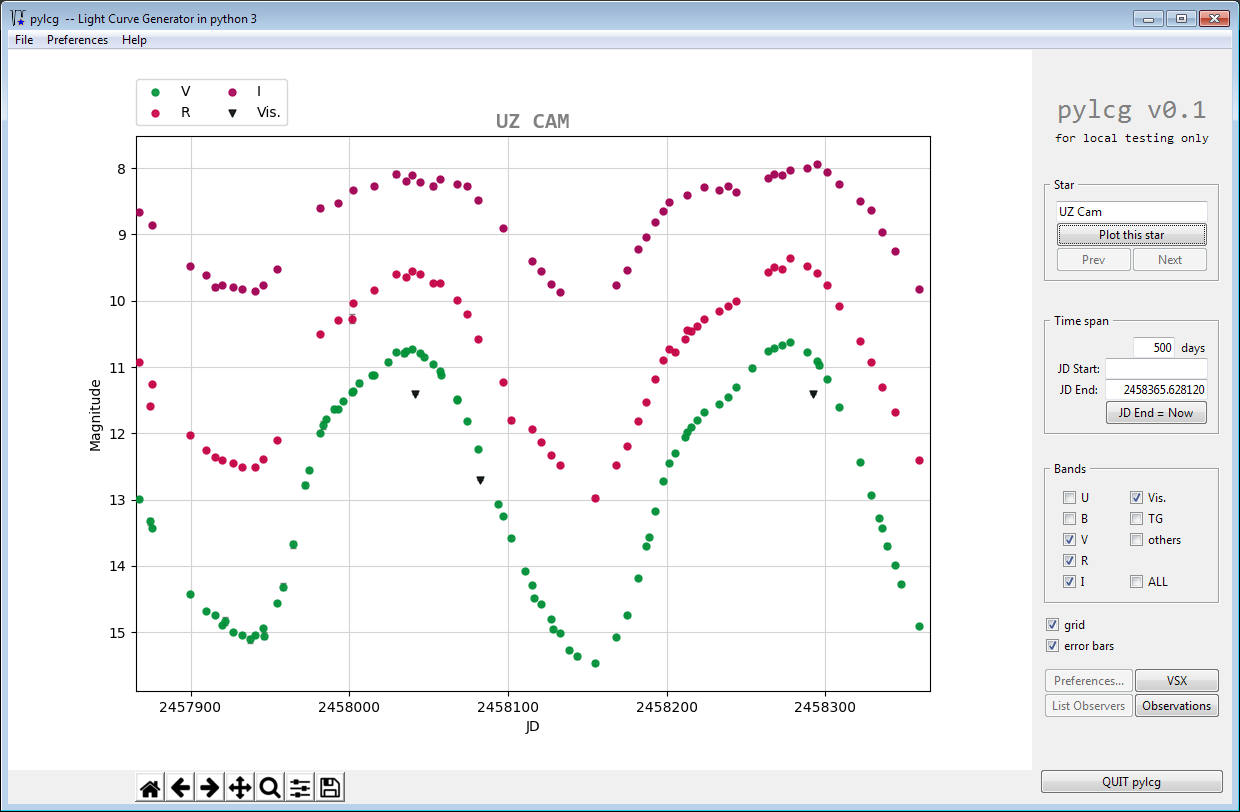
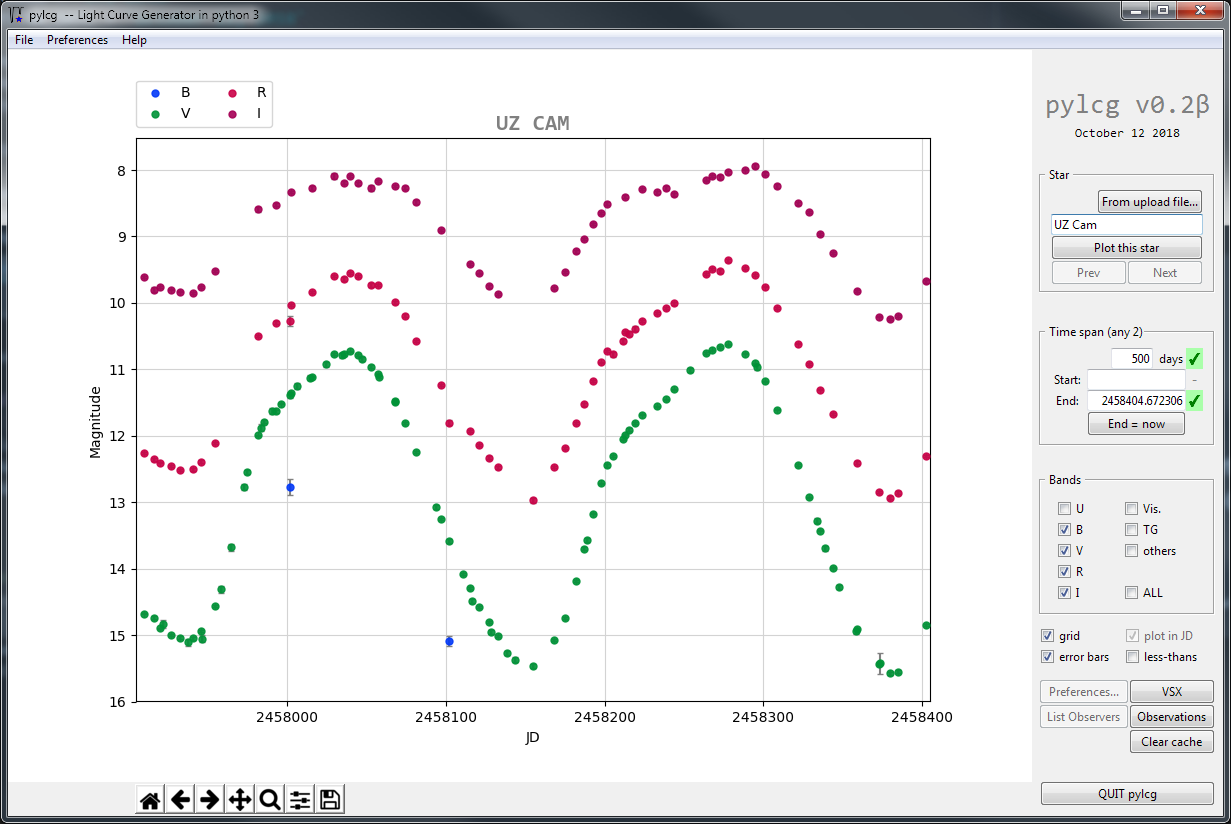
0.2 Beta :: Calendar dates on x-axis postponed.

diff --git a/pylcg/plot.py b/pylcg/plot.py
@@ -1,6 +1,8 @@
 import matplotlib
 matplotlib.use('TkAgg')  # this must immediately follow 'import matplotlib', even if IDE complains.
 
+from datetime import datetime, timedelta, timezone
+
 import tkinter as tk
 from tkinter import ttk
 from math import isnan
@@ -27,12 +29,12 @@ PLOT_TITLE_COLOR = 'gray'
 GRID_COLOR = 'lightgray'
 
 
-def redraw_plot(canvas, mdf, star_id, bands_to_plot,
-                show_errorbars=True, show_grid=True, show_lessthans=False,
-                jd_start=None, jd_end=None, num_days=None):
+def redraw_plot(canvas, mdf, star_id, bands_to_plot, show_errorbars=True, show_grid=True,
+                show_lessthans=False, plot_in_jd=True, jd_start=None, jd_end=None, num_days=None):
     """  Reformat data for matplotlib, then clear and redraw plot area only, and trigger replacement of
     the old plot by the new plot within the containing tkinter Frame.
     Do not touch other areas of main page, and do not change any external data.
+    :param plot_in_jd:
     :param canvas: canvas containing LCG plot [matplotlib FigureCanvasTkAgg object].
     :param mdf: data to plot [MiniDataFrame object].
     :param star_id: star ID to plot [string].
@@ -40,6 +42,7 @@ def redraw_plot(canvas, mdf, star_id, bands_to_plot,
     :param show_errorbars: True to plot errorbars with datapoints, else False [boolean].
     :param show_grid: True to plot grid behind plot, else False [boolean].
     :param show_lessthans: True to plot "less-than" datapoints as normal ones, else omit [boolean].
+    :param plot_in_jd: True to plot x-axis in Julian Data, False for US-format calendar dates [boolean].
     ==== User, via the GUI, needs to supply 2 of the following 3 values to define x-range of plot:
     :param jd_start: JD to be at plot's left edge [float].
     :param jd_end:  JD to be at plot's right edge, often the current JD [float].
@@ -67,7 +70,10 @@ def redraw_plot(canvas, mdf, star_id, bands_to_plot,
     ax = canvas.figure.axes[0]
     ax.clear()
     ax.set_title(star_id.upper(), color=PLOT_TITLE_COLOR, fontname='Consolas', fontsize=16, weight='bold')
-    ax.set_xlabel('JD')
+    if plot_in_jd:
+        ax.set_xlabel('JD')
+    else:
+        ax.set_xlabel('Date (UTC)')
     ax.set_ylabel('Magnitude')
     if show_grid:
         ax.grid(True, color=GRID_COLOR, zorder=-1000)  # zorder->behind everything else.
@@ -85,10 +91,16 @@ def redraw_plot(canvas, mdf, star_id, bands_to_plot,
         is_band = [b == band for b in mdf.column('band')]
         mdf_band = mdf.row_subset(is_band)
         if sum(is_band) >= 1:
-            ax.scatter(x=mdf_band.column('JD'), y=mdf_band.column('mag'),
+            if plot_in_jd:
+                x = mdf_band.column('JD')  # use Julian Dates just as they are.
+            else:
+                x = [util.datetime_utc_from_jd(jd) for jd in mdf_band.column('JD')]  # convert to datetimes.
+            ax.scatter(x=x, y=mdf_band.column('mag'),
                        color=band_color, marker=band_marker,
                        s=25, alpha=0.9, zorder=+1000)  # zorder->on top of everything.
             legend_labels.append(band)
+
+    # Compute x-axis limits:
     if jd_end is None:
         x_high = util.jd_now()
     else:
@@ -97,13 +109,25 @@ def redraw_plot(canvas, mdf, star_id, bands_to_plot,
         x_low = x_high - num_days
     else:
         x_low = jd_start
+    if not plot_in_jd:
+        x_high = util.datetime_utc_from_jd(x_high)
+        x_low = util.datetime_utc_from_jd(x_low)
     x_range = abs(x_high - x_low)
+    print(x_low, x_high, x_range)
     ax.set_xlim(x_low - 0.00 * x_range, x_high + 0.00 * x_range)
-    ax.get_xaxis().get_major_formatter().set_useOffset(False)  # possibly improve this later.
-    # To follow convention of brighter (=lesser value) manitudes to be plotted toward plot top.
-    # The next lines are a kludge, due to ax.invert_yaxis() repeatedly inverting on successive calls.
-    y_low, y_high = ax.set_ylim()
 
+    # Format x-axis labels:
+    if plot_in_jd:
+        ax.get_xaxis().get_major_formatter().set_useOffset(False)  # possibly improve this later.
+    else:
+        for label in ax.get_xticklabels():
+            label.set_ha("right")
+            label.set_rotation(30)
+
+    # Arrange the y-axis limits (not trivial as we follow convention of brighter =lesser value magnitudes
+    #    to be plotted toward top of plot.
+    # We don't use ax.invert_yaxis() as it has side-effect of repeatedly inverting y on successive calls.
+    y_low, y_high = ax.set_ylim()
     ax.set_ylim(max(y_low, y_high), min(y_low, y_high))
     ax.legend(labels=legend_labels, scatterpoints=1,
               bbox_to_anchor=(0, 1.02, 1, .102), loc=3, ncol=2, borderaxespad=0)

diff --git a/pylcg/app.py b/pylcg/app.py
@@ -33,7 +33,7 @@ __author__ = "Eric Dose :: New Mexico Mira Project, Albuquerque"
          Data cacheing built with python's built-in package functools.     
          Plotting built with package matplotlib v 2.0.2.
          [pandas dependence removed Sept 7 2018 in favor of local 'MiniDataFrame' class.]
-     This pylcg version: 0.1 BETA, September 6, 2018.
+     This pylcg version: 0.2 BETA, October 12, 2018.
      Eric Dose, Albuquerque, New Mexico, USA
 """
 
@@ -44,7 +44,7 @@ BETA_CHARACTER = '\u03B2'  # unicode 'small beta'
 
 PYLCG_LOGO = 'pylcg v0.2' + BETA_CHARACTER
 PYLCG_LOGO_FONT = ('consolas', 20)
-PYLCG_SUB_LOGO = 'October 11 2018'
+PYLCG_SUB_LOGO = 'October 12 2018'
 PYLCG_SUB_LOGO_FONT = ('consolas', 9)
 
 PYLCG_VERSION = '0.2 BETA'
@@ -317,7 +317,7 @@ class ApplicationPylcg(tk.Tk):
         self.lessthan_flag = tk.BooleanVar()
         self.grid_flag.set(True)
         self.errorbar_flag.set(True)
-        self.plotjd_flag.set(True)
+        self.plotjd_flag.set(True)  # 0.2 Beta: disabled for toolbar problems (see below)
         self.lessthan_flag.set(False)
         self.grid_flag.trace("w", lambda name, index,
                                          mode: self._entered_star(self.target_list.current()))
@@ -339,6 +339,7 @@ class ApplicationPylcg(tk.Tk):
         plotjd_checkbutton.grid(row=0, column=1, sticky='w')
         errorbars_checkbutton.grid(row=1, column=0, sticky='w')
         lessthan_checkbutton.grid(row=1, column=1, sticky='w')
+        plotjd_checkbutton.state(['disabled'])  # 0.2 Beta, as TK Toolbar misbehaves on calendar dates.
 
         self.mdf_obs_data = MiniDataFrame()  # declare here, as will be depended upon later.
 
@@ -613,7 +614,7 @@ class ApplicationPylcg(tk.Tk):
         # print(web.get_vsx_obs.cache_info())  # show cache hits, number of entries, etc
         plotter.redraw_plot(self.canvas, self.mdf_obs_data, star_id, bands_to_plot=self.bands_to_plot,
                             show_errorbars=self.errorbar_flag.get(), show_grid=self.grid_flag.get(),
-                            show_lessthans=self.lessthan_flag.get(),
+                            show_lessthans=self.lessthan_flag.get(), plot_in_jd=self.plotjd_flag.get(),
                             jd_start=jd_start, jd_end=jd_end, num_days=jd_end - jd_start)
 
 

diff --git a/pylcg/util.py b/pylcg/util.py
@@ -1,4 +1,4 @@
-from datetime import datetime, timezone
+from datetime import datetime, timezone, timedelta
 from collections import OrderedDict   # OrderedDict removes duplicates while preserving order
 #                                       (NB: in py 3.7+, native python dictionaries will do this too.)
 import csv
@@ -28,6 +28,19 @@ def jd_from_datetime_utc(datetime_utc=None):
     jd_j2000 = 2451544.5
     seconds_since_j2000 = (datetime_utc - datetime_j2000).total_seconds()
     return jd_j2000 + seconds_since_j2000 / (24*3600)
+
+
+def datetime_utc_from_jd(jd=None):
+    """  Converts a Julian Date to UTC datetime. Imported from photrix (E. Dose).
+    :param jd: Julian date to be converted [float].
+    :return: UTC datetime from Julian Date [python datetime object].
+    """
+    if jd is None:
+        return datetime.now(timezone.utc)
+    datetime_j2000 = datetime(2000, 1, 1, 0, 0, 0).replace(tzinfo=timezone.utc)
+    jd_j2000 = 2451544.5
+    seconds_since_j2000 = 24 * 3600 * (jd - jd_j2000)
+    return datetime_j2000 + timedelta(seconds=seconds_since_j2000)
 
 
 def jd_now():

diff --git a/README.md b/README.md
@@ -2,20 +2,21 @@
 
 #### A new (August-September 2018) python 3 replacement for AAVSO's venerable but doomed Light Curve Generator "LCG V1".
 
-Mid-2018, the [AAVSO](http://www.aavso.org) (American Association of Variable Star Observers) decided that it must retire its original Light Curve Generator [LCG V1](https://www.aavso.org/lcg). For years it has been AAVSO's main web service for plotting variable-star "light curves". But LCG V1 will probably disappear late 2018.
- 
-While AAVSO's newer light-curve plotting tool [LCG V2](https://www.aavso.org/LCGv2/) is in place, a number of high-volume CCD variable-star observers (including the one writing this) do not consider LCG V2 a viable replacement. Their reasons can be readily found on AAVSO's Forums, but LCG V2's clumsy interface, tectonic load rates, and its (um) aesthetic sense seem to be the most cited causes for rejection.    
+_Currently: version 0.2 Beta, October 12, 2018_
 
-So, in short, this author wrote this pylcg software as a lightweight, streamlined, but full-featured light curve plotting tool. By contrast to AAVSO's LCG V1 and LCG V2, which are run on AAVSO's servers as web services, pylcg is offered as a Windows executable to run on one's own PC.
+Mid-2018, the [AAVSO](http://www.aavso.org) (American Association of Variable Star Observers) decided that it must retire its original Light Curve Generator [LCG V1](https://www.aavso.org/lcg). For years it has been AAVSO's main web service for plotting variable-star "light curves". But LCG V1 will probably disappear late 2018. 
+While AAVSO's newer light-curve plotting tool [LCG V2](https://www.aavso.org/LCGv2/) is in place, a number of high-volume CCD variable-star observers (including the one writing this) do not consider LCG V2 a viable replacement.    
 
->A pylcg 0.1 [screenshot](https://github.com/edose/pylcg/blob/master/screenshot_pylcg.png) is available here on this repository. Users of LCG V1 will get it right away and won't need much help.
+So, in short, this author wrote this pylcg software as a lightweight, streamlined, but full-featured light curve plotting tool. Unlike AAVSO's LCG V1 and LCG V2, which are run on AAVSO's servers as web services, pylcg is offered as a Windows executable to run on one's own PC.
 
-### How to use pylcg version 0.1
+>A pylcg [screenshot](https://github.com/edose/pylcg/blob/master/screenshot_pylcg.png) is available here on this repository. Users of LCG V1 will get it right away and won't need much help.
+
+### How to use pylcg version 0.2 BETA
 
 For now, pylcg operates one plot at a time, just as web-based LCG does.
 
-1. Enter the star ID. 
-2. Enter any 2 of the 3 time-span items: Number of days, JD Start, end JD End. The most common 2 entries by far are Number of days and JD End, with JD End as "now". If you press the "JD End = Now" button it will populate JD End with the JD of your PC's clock at that moment.
+1. Enter the star ID. Or import star IDs from an upload file.
+2. Define the time span by entering any 2 of these 3: Number of days, JD Start, JD End. The most common 2 entries by far are Number of days and JD End, with JD End as "now". If you press the "JD End = Now" button it will populate JD End with the JD of your PC's clock at that moment.
 3. Make sure the photometric bands you want are selected. Check grid and errorbars if you want them (normally on).
 4. Click Plot this Star under the star name.
 
@@ -25,9 +26,22 @@ To see the same plot but with different bands, just select or deselect any bands
 
 Same with grid and error bars: change the check boxes and it updates immediately.
 
-### Additional Features
+### Changes in Version 0.2 Beta (vs 0.1 Beta):
 
-**_Plots are resizeable!_** Drag and drop the (say) right bottom corner of the whole window to resize the plot. You can shrink it small enough to fit easily in a laptop screen, or make it as large as you can stand (but note: the axes and data points don't grow with the screen).
+1. Star names may be imported from an upload file! The order within the file is retained, and duplicates are removed. This has been tested for both Extended (CCD) Format and Visual Format upload files. 
+2. The Prev and Next buttons plot the previous or next star. This works whether star names were typed in or imported from an upload file. 
+3. Calendar dates or Julian Dates may be entered in the Start and End boxes, in any combination. Plots will still be in Julian Date (see above). Entered dates may be in US format (mm/dd/yyyy) or international format (dd.mm.yyyy or dd-mm-yyyy).
+4. Check marks on the right of the Start, End, and Days entry boxes mean that pylcg understands what's in the box. An X mark means it doesn't understand, and a dash means the entry box appears to be entry. When the check mark is highlighted green, that means that data has been loaded and plotted using those values. 
+5. Less-than observations may be toggled on or off.
+6. Cache may be cleared by user in the unlikely event something goes wrong with a download.
+
+**Please note: Plotting with calendar dates on the x-axis did not make it into 0.2 Beta.** Sorry. A really difficult bug in the toolbar function (from TKinter and matplotlib) prevents zooming back correctly after axis units have changed, for example when changing from plotting in Julian Date to plotting in calendar dates. There is not enough time before the sun goes red giant to hack this stock toolbar, and then it would be unstable to later python versions anyway. Several days of research into this persuades me that it just fails to provide this functionality. 
+
+So for an upcoming version, I will code my own zoom and cache functionality, then we can plot in JD, calendar dates, or any other time span, and with proper formatting. But not yet--it's not worth delaying 0.2 Beta any farther. I plan for Version 0.3 Beta (before the AAVSO November meeting) to have a complete rewrite of the zoom function. That will solve a lot of problems.
+
+### Notable features retained from 0.1 Beta:
+
+Plots are resizeable. Drag and drop the (say) right bottom corner of the whole window to resize the plot. You can shrink it small enough to fit easily in a laptop screen, or make it as large as you can stand (but note: the axes and data points don't grow with the screen).
 
 To see the **_VSX record_** for the current star, click the "VSX" button. A populated VSX search page will appear in your browser.
 
@@ -42,27 +56,27 @@ The _**Toolbar**_ (at lower left from the plot) has seven buttons. Let me cover 
 * The settings icon (6th button) is rarely used except perhaps to tweak plots for publication.
 * The disk icon (last button) allows you to save the plot as an image file (PNG format is default and recommended).
 
-_**Data cacheing**_: Pylcg 0.1 does download data from AAVSO for every plot, but it saves that data in a local cache. It will not reload the 2nd or 100th time you plot the same star with the same time range, so long as you keep pylcg open.
+_**Data cacheing**_: Pylcg does download data from AAVSO for every plot, but it saves that data in a local cache. So it will not reload on zooming or on the 2nd or 100th time you plot the same star with the same time range, so long as you keep pylcg open. Good for the user, good for AAVSO.
 
-### What doesn't work yet?
+### What doesn't work yet? And what does the future hold?
 
-Preferences are limited to persistence of time-span Number of Days and band selections.
+_NB: All issues, both pending and closed, are available at github.com/edose/pylcg/issues._
 
-The menu bar doesn't have much, although the Exit, Browse Repo, and About menu items do work.
+* Preferences are limited; more preferences and persistence are planned for 0.3 Beta. 
 
-When changing settings (e.g, bands, grid), a zoomed-in plot will snap back to full time span. This is a "feature" of the toolbar inherited from matplotlib. Happily, it probably won't affect most users who will choose their settings once and rarely change them. If it's really critical to someone, I'll research a fix for this. But I certainly did not want to hold up pylcg just for this.
+* When changing settings (e.g, bands, grid), a zoomed-in plot will snap back to full time span. This "feature" of the toolbar will disappear during upcoming rewrite of the zoom facility (0.3 Beta). 
 
-### What does the future hold?
+* Plots with Calendar dates on X-axis (0.3 Beta).
 
-* First and foremost: facility to read an AAVSO Upload file of new data (Enhanced/CCD format) and make all star IDs available to the "Prev" and "Next" buttons (under "Plot this Star"; deactivated for now). That is: one-click per target to review all the data you just submitted, right in WebObs context. Ah. Nirvana.
+* Status label to inform user while downloading observations, etc. (0.3 Beta)
 
-* Highlight points from observer(s). _(Do people really use this?)_
+* "List Observers" facility (for observations currently plotted). Easy. (0.3 Beta)
 
-* Preferences enhancements.
+* Maybe: menu bar enhancements. Now limited to Exit, Browse Repo, and About menu items do work.
 
-* "List Observers" facility (for observations currently plotted).
+* Maybe: Highlight points from observer(s). _(Do people really use this?)_
 
-* Possibly: various annotations right on the plot. Optional? Suggestions?
+* Maybe: various annotations right on the plot. Optional? Suggestions?
 
 ### Beyond that ... What do \*you\* want its future to be?
  
